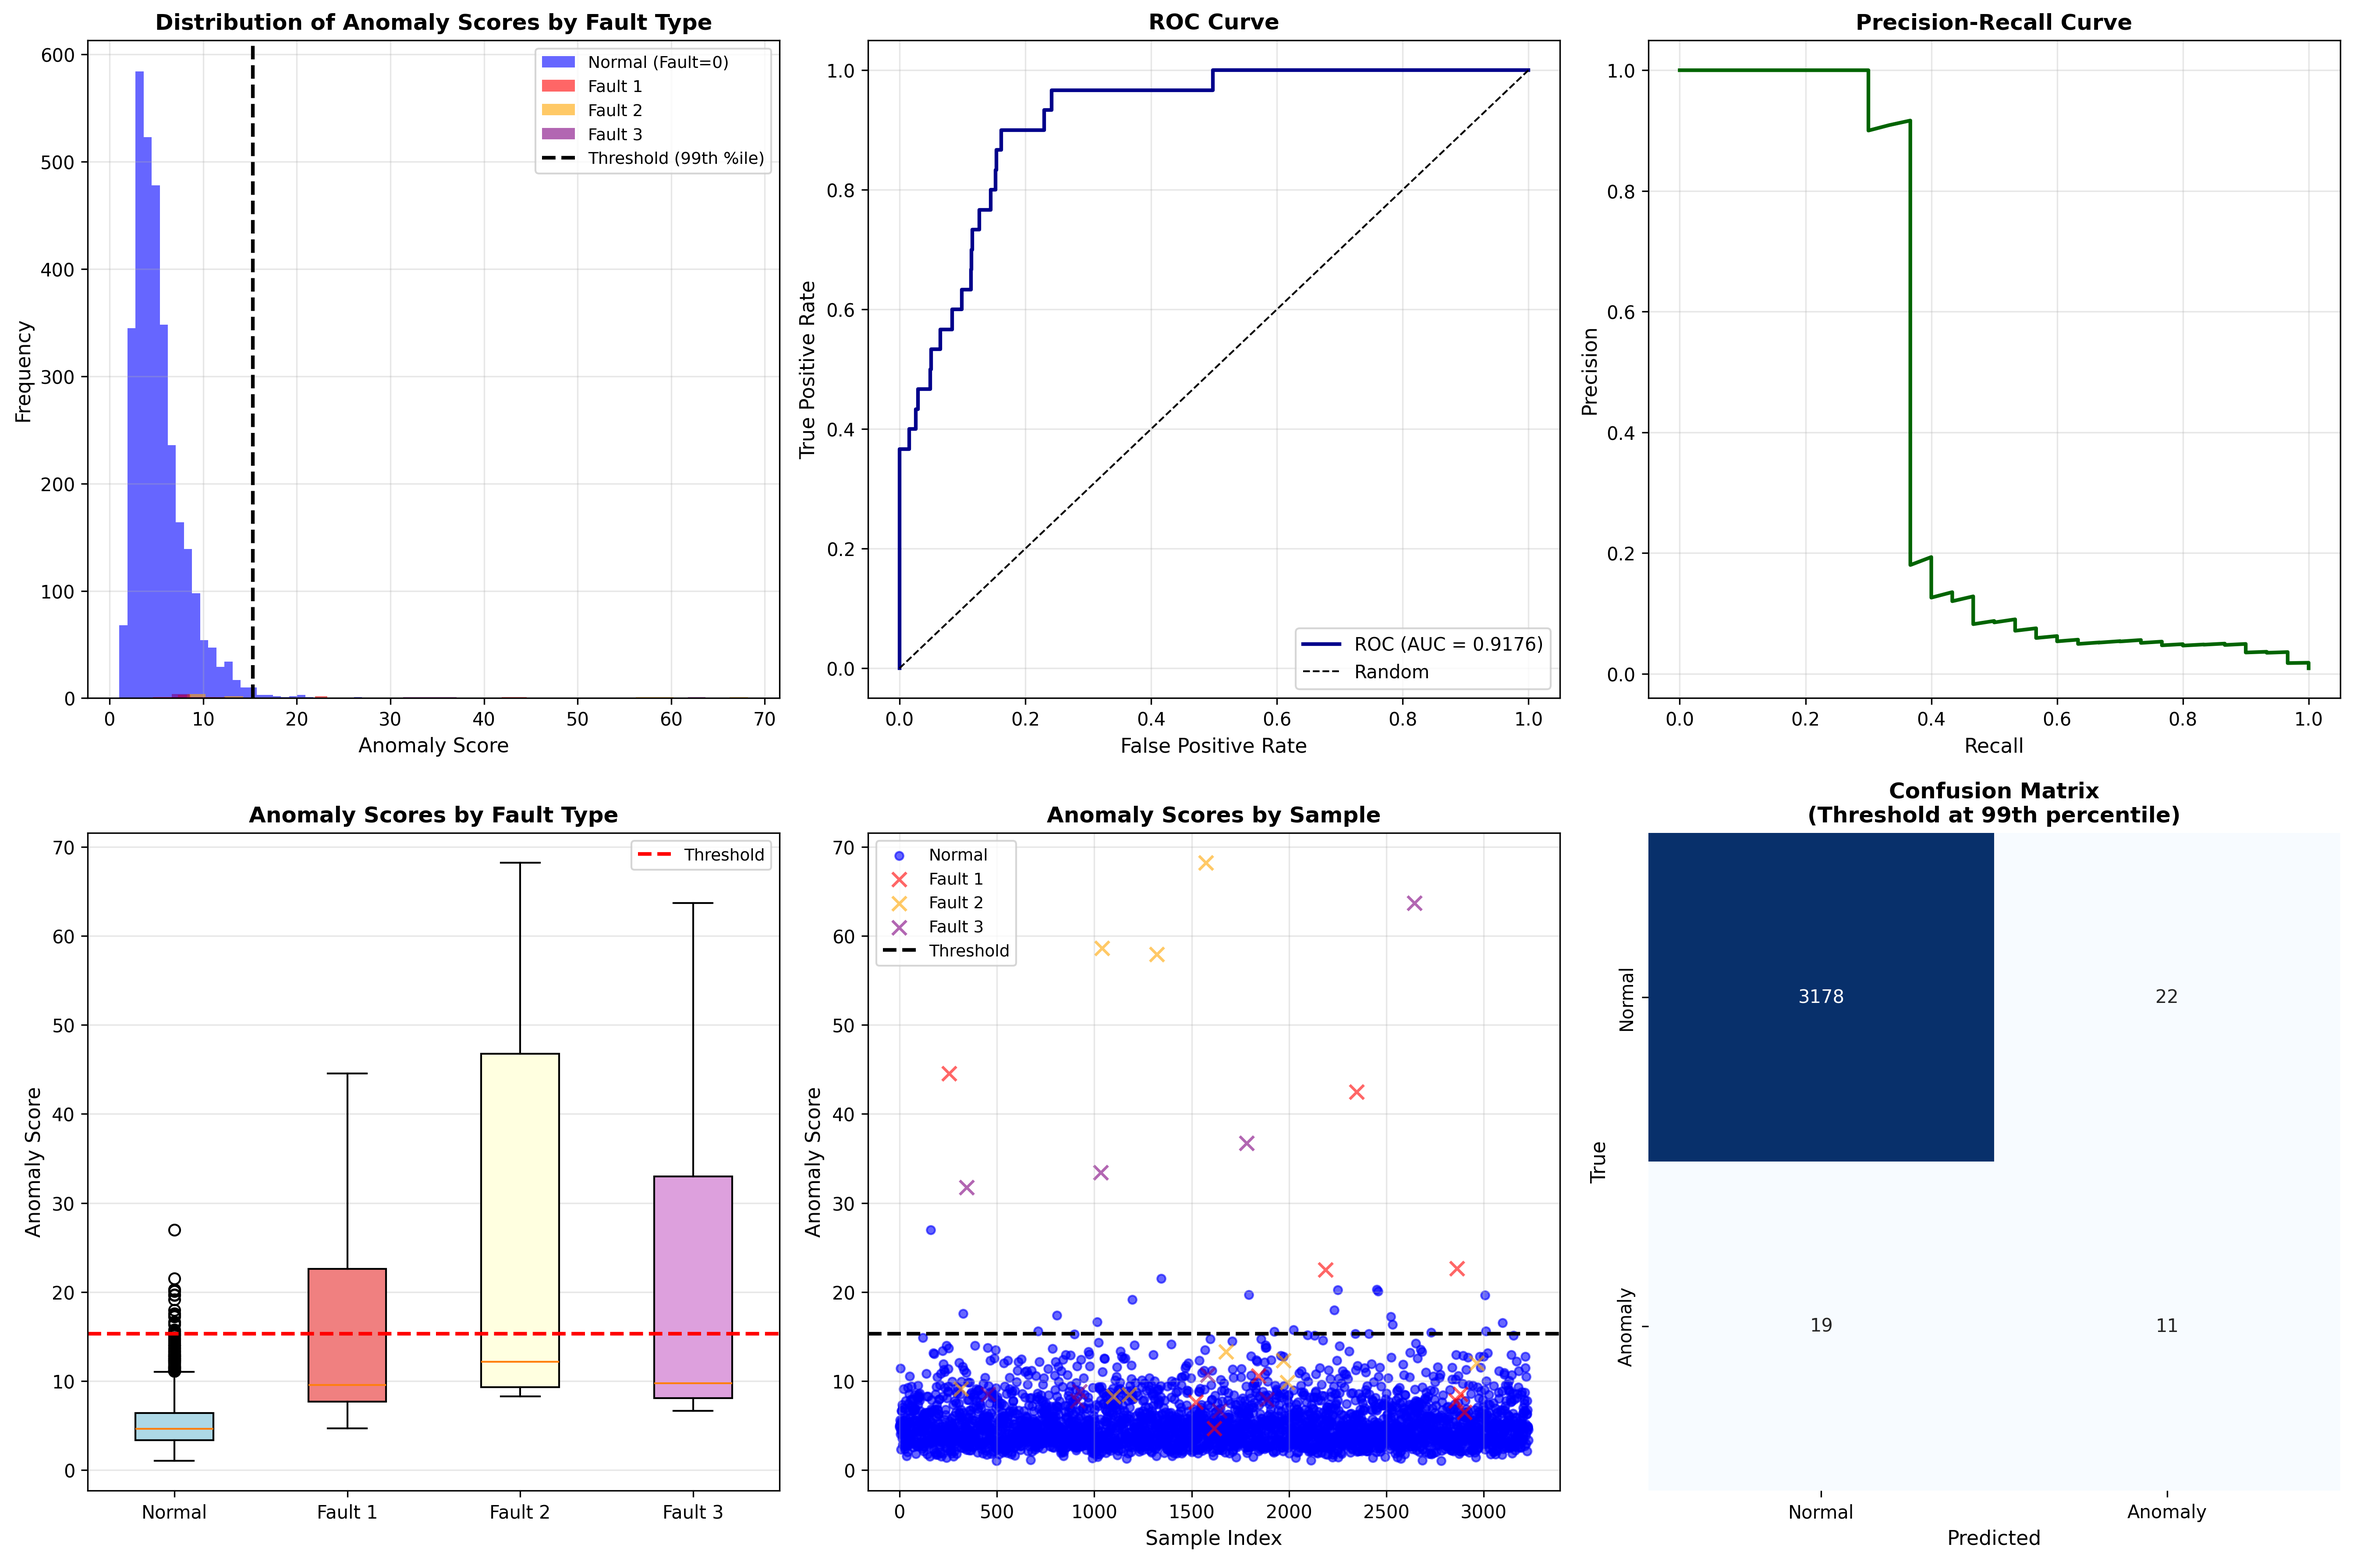
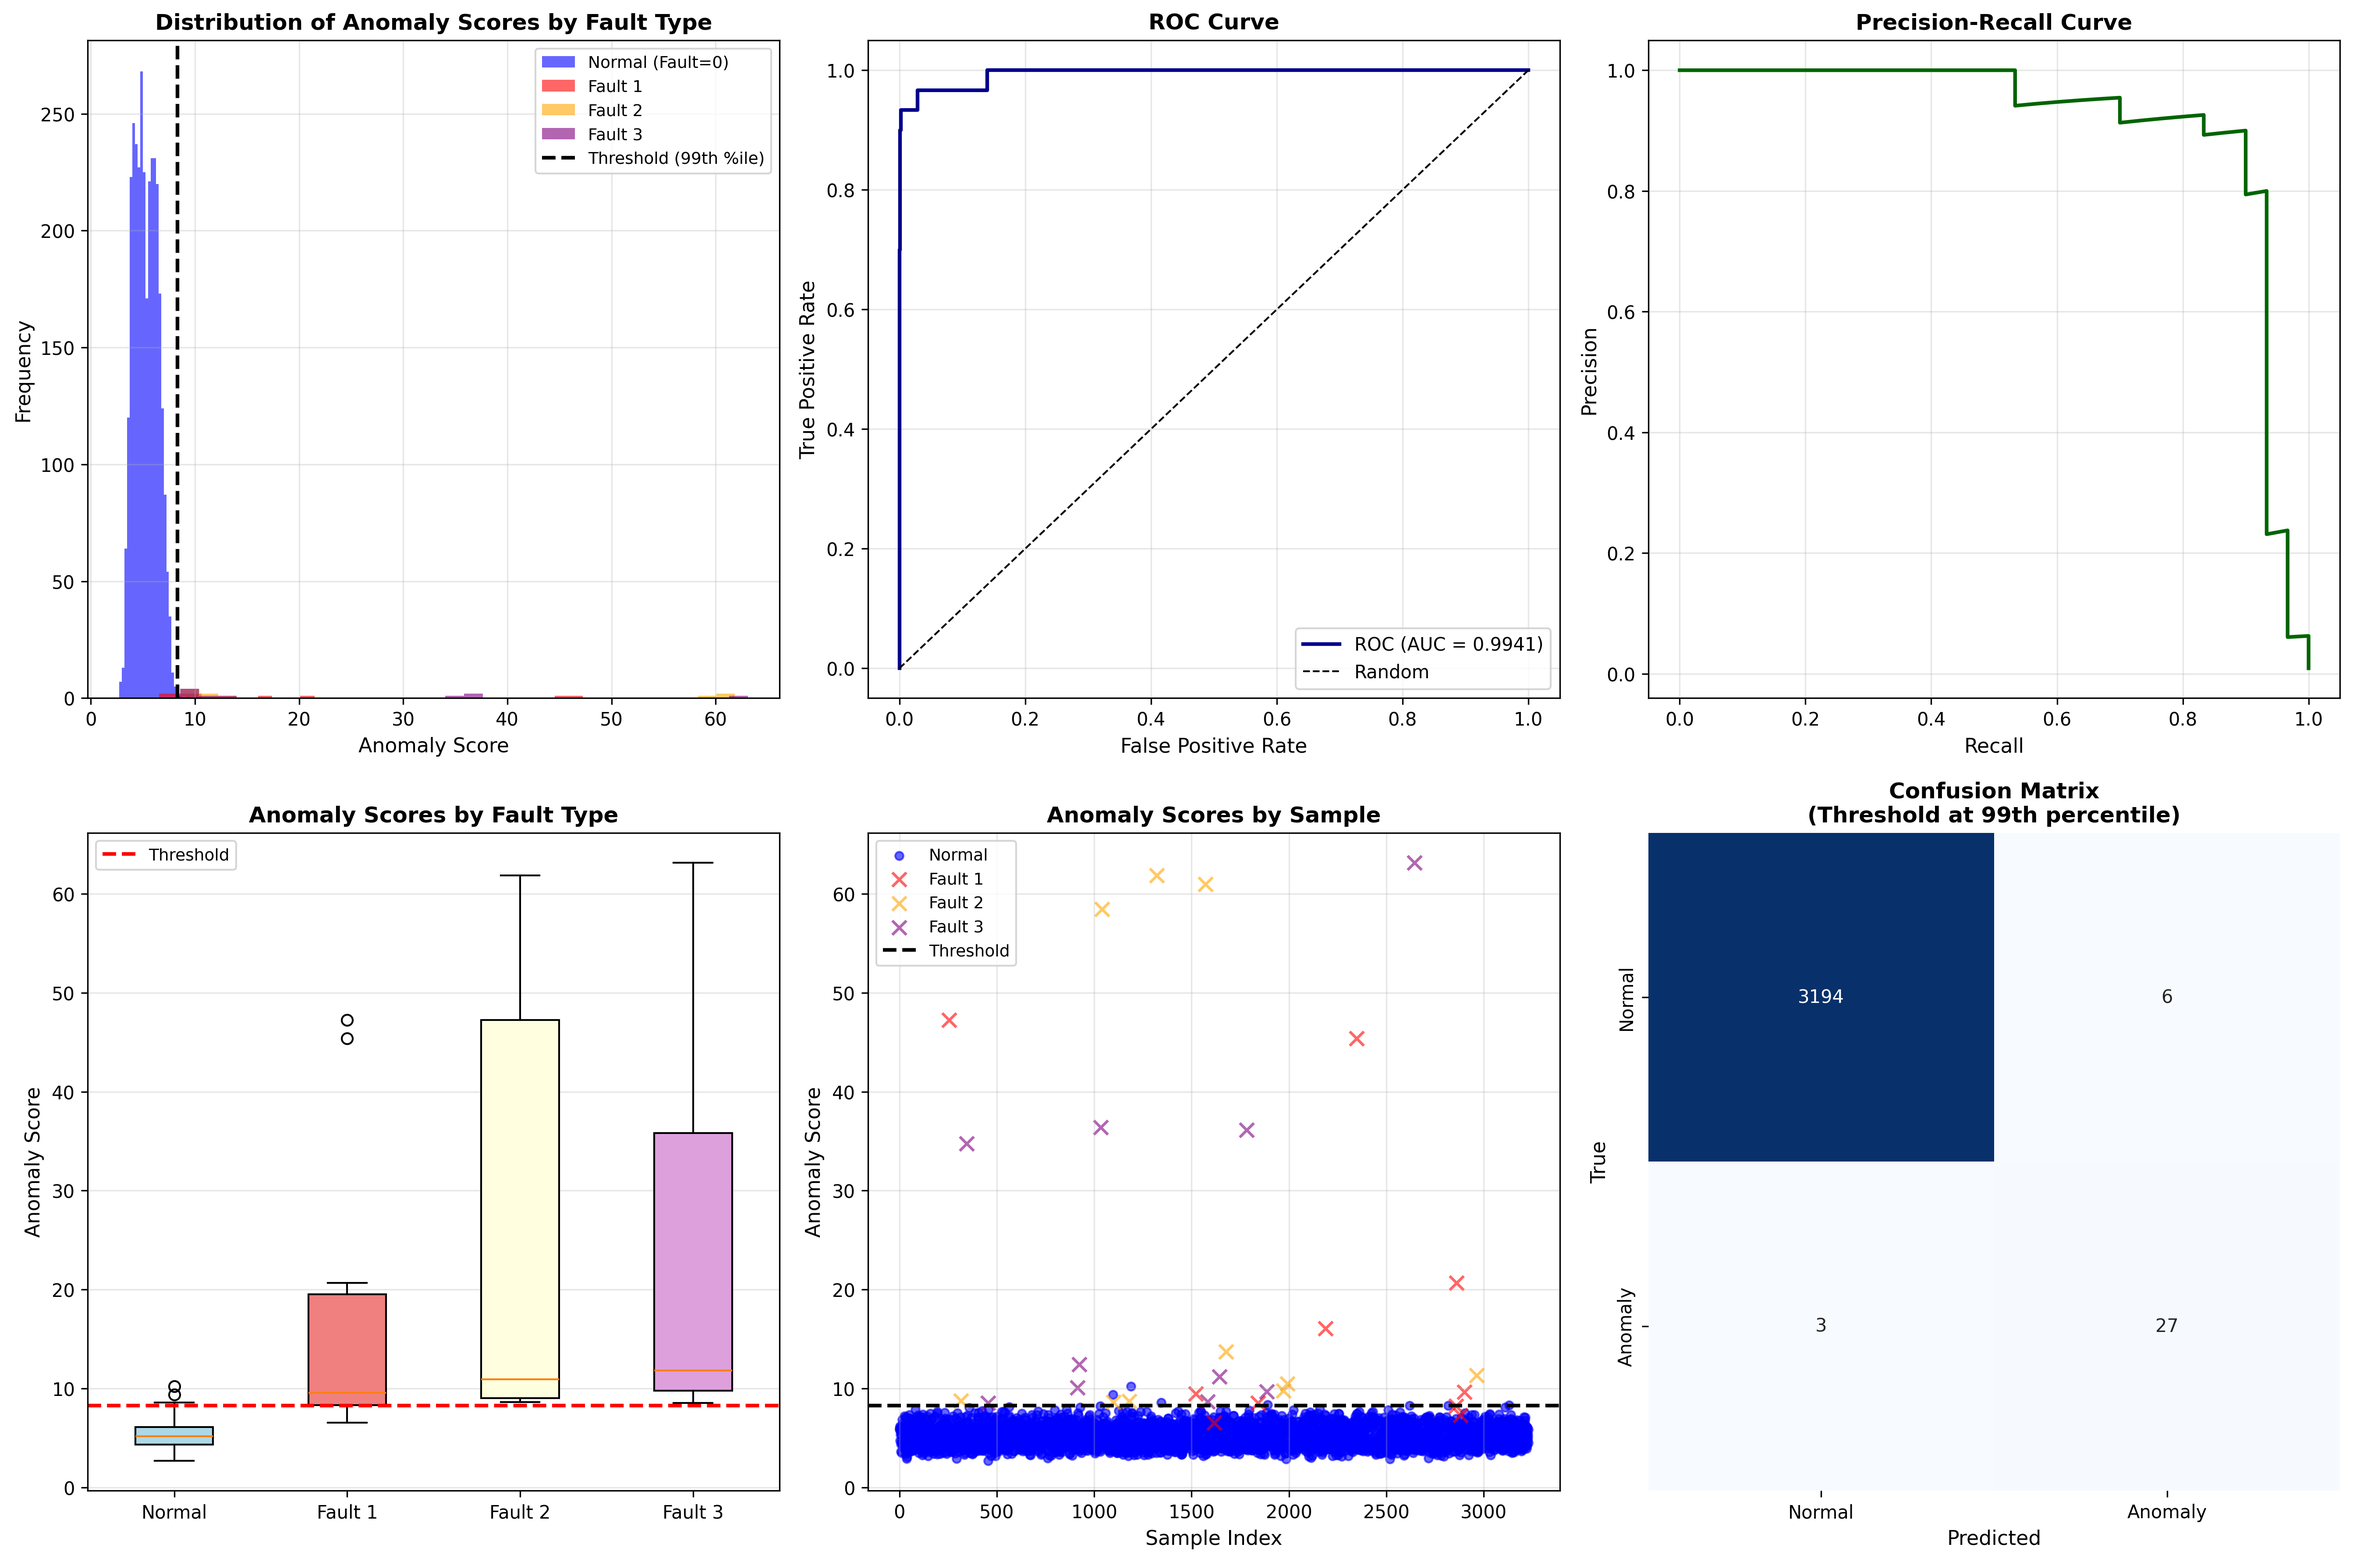
duplicate_k_test established in deviation classifier

diff --git a/Python-Package/base-ForestDiffusion/ForestDiffusion/diffusion_with_trees_class.py b/Python-Package/base-ForestDiffusion/ForestDiffusion/diffusion_with_trees_class.py
@@ -409,12 +409,11 @@ class ForestDiffusionModel():
     out = out.reshape(-1) # [-1]
     return out
 
-
-#-----------------------------------------------------------------------------------
+  #-----------------------------------------------------------------------------------
   #create between the testsample and random noise sample samples in the latent space
   #categorical features must have the same value space in test and training
 
-  def compute_deviation_score(self, test_samples, n_t=None):
+  def compute_deviation_score(self, test_samples, n_t=None, duplicate_K_test=50):
     assert self.diffusion_type == 'flow', "Deviation score only for flow-matching"
     assert self.p_in_one == True, "Deviation score only for p_in_one=True"
     assert not np.isnan(test_samples).any(), "test_samples must not contain NaNs"
@@ -430,7 +429,12 @@ class ForestDiffusionModel():
     
     n_samples = test_samples.shape[0]
     n_features = test_samples.shape[1]
-    mask_y = {0: np.ones(n_samples, dtype=bool)}
+
+    #duplicate test samples
+    test_samples_rep = np.tile(test_samples, (duplicate_K_test, 1))
+    n_samples_rep = test_samples_rep.shape[0]  # = n_samples * duplicate_K_test
+
+    mask_y = {0: np.ones(n_samples_rep, dtype=bool)}
 
     model = partial(
         self.my_model,
@@ -439,35 +443,33 @@ class ForestDiffusionModel():
         unflatten=False,       # ← False für 2D Daten!
         X_covs=None
     )
-    X0 = np.random.normal(size=test_samples.shape)
+    X0 = np.random.normal(size=test_samples_rep.shape)
 
     #returns x_t_samples: [n_t * n_samples, n_features], v_true: [n_samples, n_features]; bc n_features gives the direction
     x_t_samples, v_true = build_data_xt(
         X0, 
-        test_samples, 
+        test_samples_rep, 
         n_t=n_t, 
         diffusion_type="flow", 
         eps=self.eps, 
         sde=None
     )
-    anomaly_scores = np.zeros(n_samples)
+    anomaly_scores_rep = np.zeros(n_samples_rep)
     t_levels = [i / (n_t - 1) for i in range(n_t)]
+
     for i, t in enumerate(t_levels):
-        # only use samples for this time step
-        start_idx = i * n_samples
-        end_idx = (i + 1) * n_samples
+        start_idx = i * n_samples_rep
+        end_idx = (i + 1) * n_samples_rep
 
-        #x_t_samples: [n_t * n_samples, n_features]; for every test_sample we have n_t samples in the latent space; ordered by time step
         X_t = x_t_samples[start_idx:end_idx, :]
-       
-        v_pred_t = model(t=t, y=X_t)  # t ist FLOAT zwischen eps und 1
-        # v_pred_t: [n_samples, n_features]
-        squared_error = np.sum((v_true - v_pred_t) ** 2, axis=1)
-        anomaly_scores += squared_error
-    anomaly_scores = anomaly_scores / n_t
-    return anomaly_scores  # [n_samples] - ein Score pro Sample!
+        v_pred_t = model(t=t, y=X_t)
 
-  
+        squared_error = np.sum((v_true - v_pred_t) ** 2, axis=1)
+        anomaly_scores_rep += squared_error
+    anomaly_scores_rep = anomaly_scores_rep / n_t  # [n_samples_rep]
+    anomaly_scores_rep = anomaly_scores_rep.reshape(duplicate_K_test, n_samples)
+    anomaly_scores = anomaly_scores_rep.mean(axis=0)  # mitteln über Noise-Samples
+    return anomaly_scores  # [n_samples]
 
   # Generate new data by solving the reverse ODE/SDE
   def generate(self, batch_size=None, n_t=None, X_covs=None):
